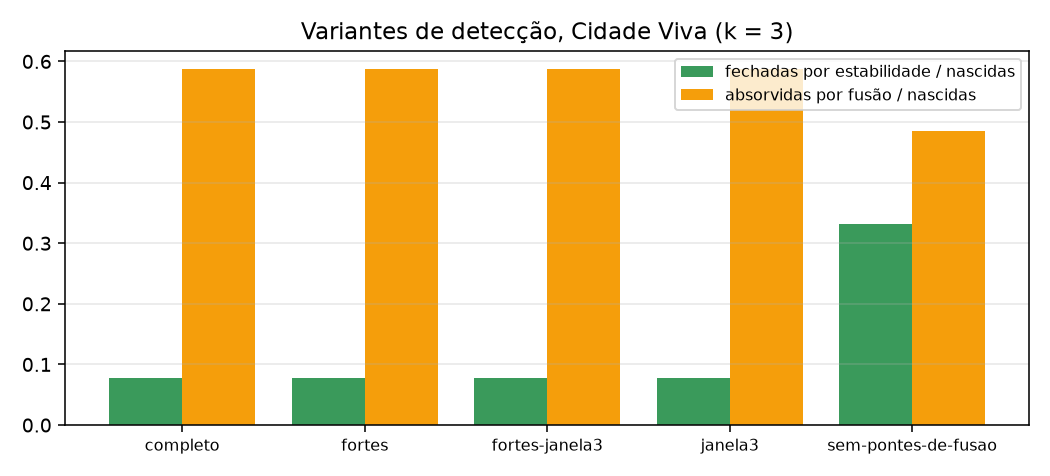
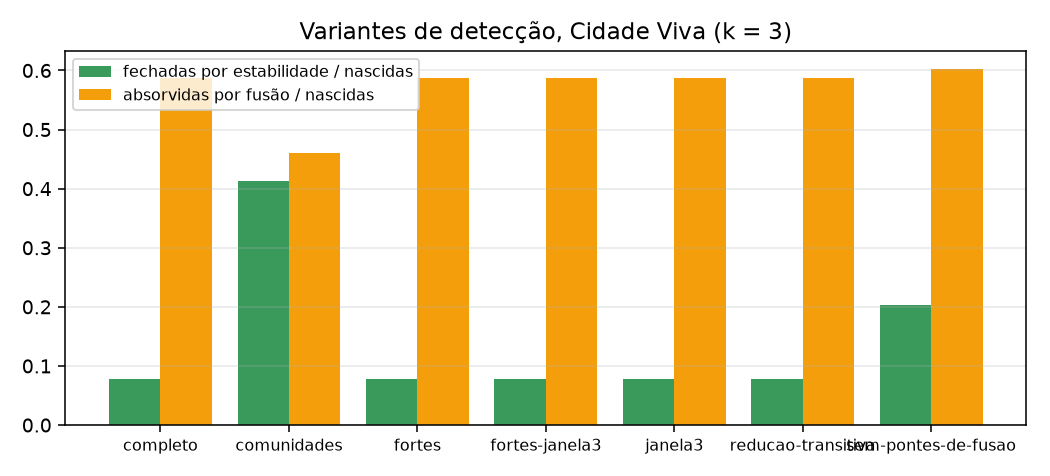
análise: grupo da replicação de 20 dias e seções novas no relatório de grafos
Claude-Session: https://claude.ai/code/session_016Pyv4eHPKm16HccM1aWEVz

diff --git a/analise/grafos.py b/analise/grafos.py
@@ -68,7 +68,7 @@ for (const dir of process.argv.slice(2)) {
     const resumo = JSON.parse(readFileSync(join(p, 'resumo.json'), 'utf8'));
     saida.push({ sessao: s, pasta: dir, modelo: c.modelos.agentes.modelo, mundo: c.mundo, controle: c.controle,
       estadoTramas: c.estadoTramas, tipadas: !!c.ligacoesTipadas, causasMaximas: c.causasMaximas ?? null,
-      causasExcedentes: resumo.causasExcedentes ?? 0, semente: c.semente, eventos: ev.length, grafo: g, variantes,
+      causasExcedentes: resumo.causasExcedentes ?? 0, semente: c.semente, dias: c.dias, eventos: ev.length, grafo: g, variantes,
       completo: variantes.completo, semPontes: variantes['sem-pontes-de-fusao'], fortes: variantes.fortes });
   }
 }
@@ -85,7 +85,7 @@ console.log(JSON.stringify(saida));
         g, c, sp, f = r["grafo"], r["completo"], r["semPontes"], r["fortes"]
         linhas.append({
             "sessao": r["sessao"], "modelo": r["modelo"], "mundo": r["mundo"], "controle": r["controle"],
-            "estadoTramas": r["estadoTramas"], "tipadas": r["tipadas"], "semente": r["semente"], "eventos": r["eventos"],
+            "estadoTramas": r["estadoTramas"], "tipadas": r["tipadas"], "semente": r["semente"], "dias": r["dias"], "eventos": r["eventos"],
             "ligacoes": g["ligacoes"], "ligPorEvento": g["ligacoes"] / max(1, g["eventos"]), "pontes": g["pontes"],
             "pontesFusao": g["pontesDeFusao"], "articulacoes": g["articulacoes"], "porTipo": g["porTipo"],
             "forcaMedia": g["forcaMedia"],
@@ -128,10 +128,11 @@ def main() -> None:
 
     # 2. métricas de grafo das sessões (métodos 1, 2 e 7)
     dirs = [raiz / "v1-cidade-viva-claude", raiz / "v2-controle-tres-atos-claude", raiz / "v3-ligacoes-tipadas-claude",
-            raiz / "v4-causas-maximas-claude"]
+            raiz / "v4-causas-maximas-claude", raiz / "v5-replicacao-claude"]
     df = metricas_sessoes([d for d in dirs if d.exists()])
     df["grupo"] = np.where(df["controle"], "três atos", np.where(df["tipadas"], "Cidade Viva tipada",
-                           np.where(df["causasMaximas"].notna(), "Cidade Viva ≤2 causas", "Cidade Viva")))
+                           np.where(df["causasMaximas"].notna(), "Cidade Viva ≤2 causas",
+                                    np.where(df["dias"] > 12, "Cidade Viva 20 dias", "Cidade Viva"))))
     df.to_csv(destino / "sessoes.csv", index=False)
     cv = df[~df["controle"]]
     variantes_nomes = [c[5:] for c in df.columns if c.startswith("prop_")]
@@ -142,6 +143,38 @@ def main() -> None:
     ]
     res["grafoPorGrupo"] = (df.groupby("grupo")[["ligPorEvento", "pontes", "pontesFusao", "articulacoes", "nascidas", "propFechadas", "propFundidas", "propFechadasSemPontes"]]
                             .mean().round(3).to_dict("index"))
+
+    # 2b. método 9: replicação com 20 dias, 3 repetições, Sonnet 4.6 × Sonnet 5
+    rep = cv[cv["grupo"] == "Cidade Viva 20 dias"]
+    if len(rep):
+        conv = {}
+        cond_rep = raiz / "v5-replicacao-claude" / "analise" / "condicoes_k3.csv"
+        if cond_rep.exists():
+            cr = pd.read_csv(cond_rep)
+            conv = {curto(m.split("/")[-1]): float(v) for m, v in cr.groupby("modelo")["sessoes_que_convergem_emenda1"].mean().items()}
+        orig = cv[(cv["grupo"] == "Cidade Viva") & (cv["estadoTramas"] == "informa") & (cv["modelo"].isin(set(rep["modelo"])))]
+        por_modelo = {}
+        for m, g in rep.groupby("modelo"):
+            o = orig[orig["modelo"] == m]
+            por_modelo[curto(m)] = {
+                "sessoes": int(len(g)), "ligPorEvento": float(g["ligPorEvento"].mean()), "nascidas": float(g["nascidas"].mean()),
+                "propFechadas": float(g["propFechadas"].mean()), "propFundidas": float(g["propFundidas"].mean()),
+                "propFechadasSemPontes": float(g["propFechadasSemPontes"].mean()),
+                "propFechadasComunidades": float(g["prop_comunidades"].mean()),
+                "sessoesComFechamento": int((g["fechadas"] > 0).sum()), "convergem": conv.get(curto(m)),
+                "metodo1": {"sessoes": int(len(o)), "propFechadas": float(o["propFechadas"].mean()) if len(o) else None,
+                            "propFundidas": float(o["propFundidas"].mean()) if len(o) else None},
+            }
+        ms = sorted(set(rep["modelo"]))
+        mw = None
+        if len(ms) == 2:
+            a = rep[rep["modelo"] == ms[0]]["propFechadas"].to_numpy(float)
+            b = rep[rep["modelo"] == ms[1]]["propFechadas"].to_numpy(float)
+            if np.any(np.concatenate([a, b]) != a[0]):
+                u = stats.mannwhitneyu(a, b, alternative="two-sided")
+                mw = {"a": curto(ms[0]), "b": curto(ms[1]), "U": float(u.statistic), "p": float(u.pvalue),
+                      "rankBiserial": float(1 - 2 * u.statistic / (len(a) * len(b)))}
+        res["replicacao"] = {"sessoes": int(len(rep)), "dias": int(rep["dias"].max()), "porModelo": por_modelo, "mannWhitneyFechadas": mw}
 
     # 3. métodos 7 e 8: pareados com o método 1 (mesmo modelo, mundo, condição A e semente)
     base = cv[(cv["grupo"] == "Cidade Viva") & (cv["estadoTramas"] == "informa")].set_index(["modelo", "mundo"])
@@ -237,7 +270,7 @@ def main() -> None:
     if len(vg):
         ordem_v = ["completo", "reducao-transitiva", "janela3", "fortes", "fortes-janela3", "sem-pontes-de-fusao", "comunidades"]
         ordem_v = [v for v in ordem_v if v in set(vg["variante"])]
-        gs = [g for g in ["Cidade Viva", "Cidade Viva tipada", "Cidade Viva ≤2 causas", "três atos"] if g in set(vg["grupo"])]
+        gs = [g for g in ["Cidade Viva", "Cidade Viva tipada", "Cidade Viva ≤2 causas", "Cidade Viva 20 dias", "três atos"] if g in set(vg["grupo"])]
         fig, eixos = plt.subplots(1, 2, figsize=(14, 4))
         x = np.arange(len(ordem_v))
         larg = 0.8 / len(gs)
